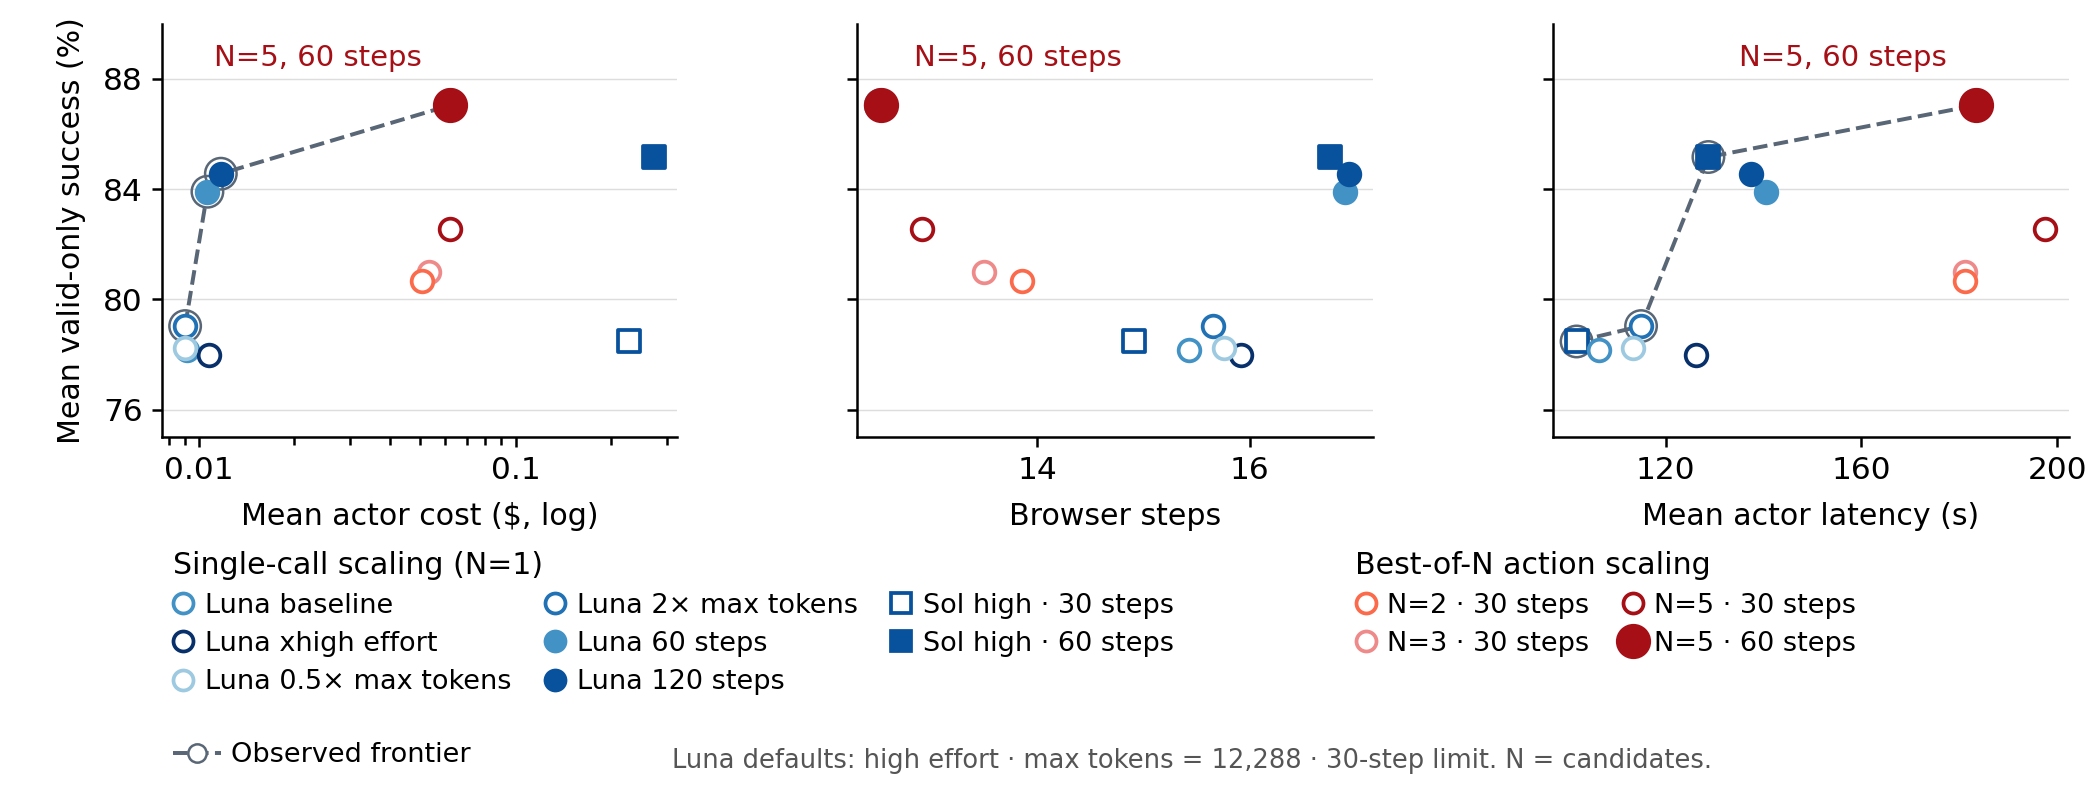
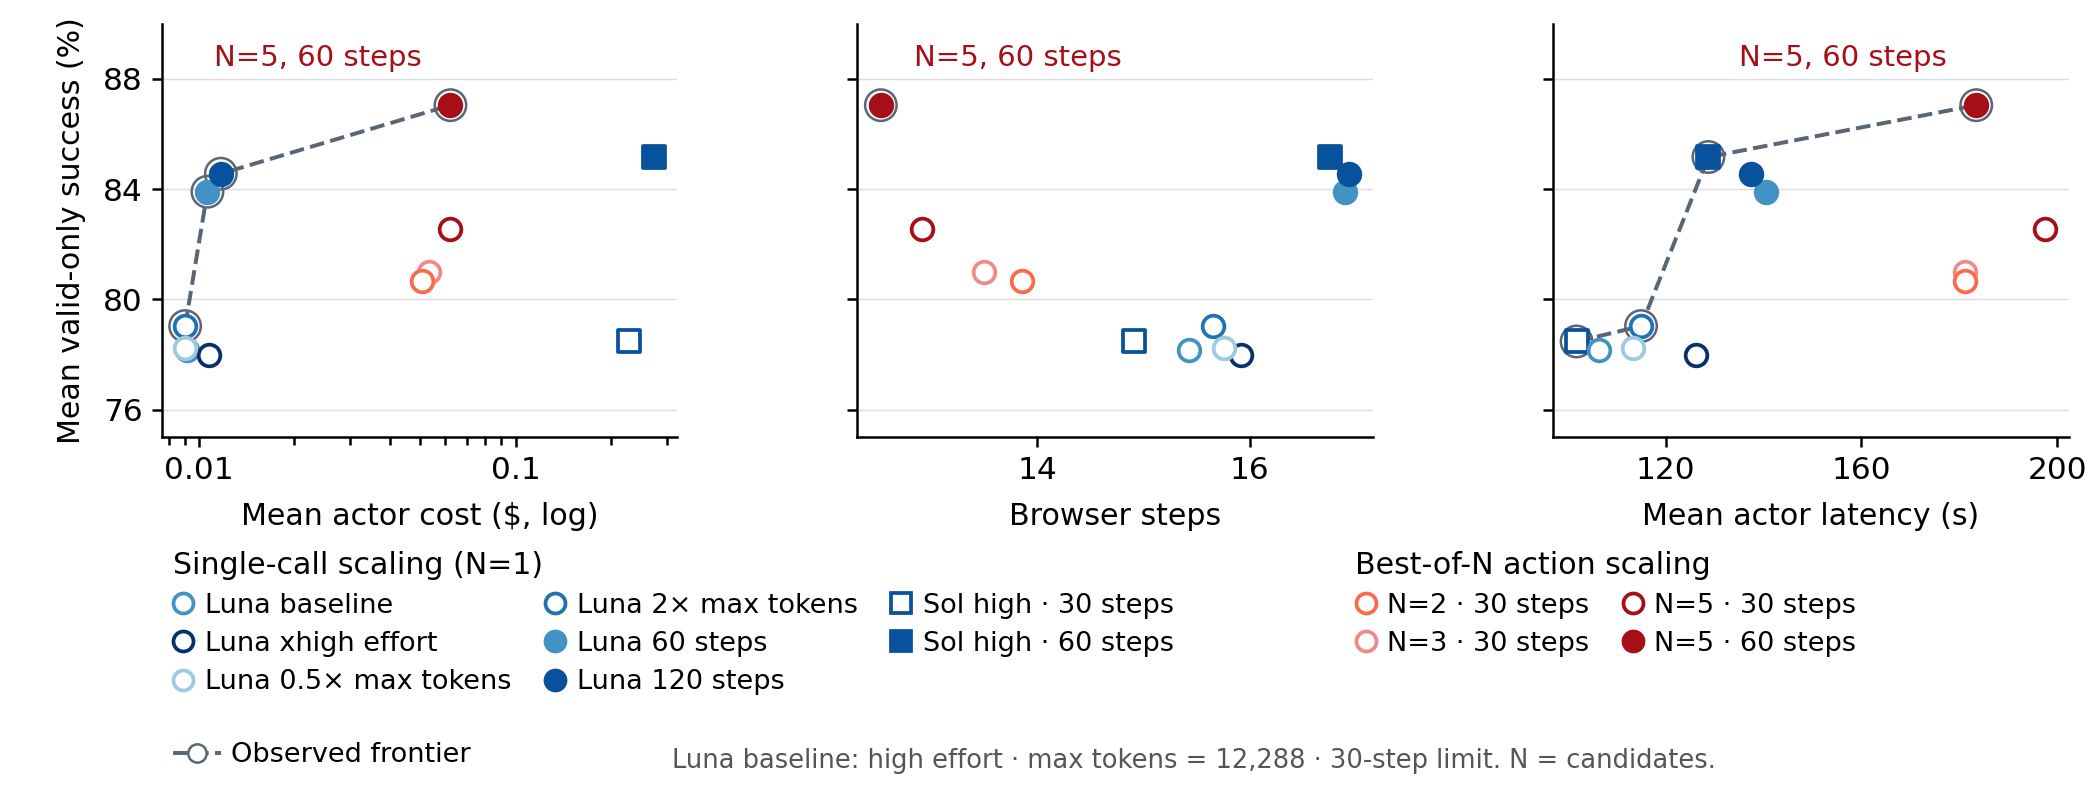
Use standard red marker size and define Luna baseline in Pareto preview

diff --git a/openwebrl/docs/arm_results/browsercode_inference_scaling_20261031/plot_browsercode_pareto_highlight_preview.py b/openwebrl/docs/arm_results/browsercode_inference_scaling_20261031/plot_browsercode_pareto_highlight_preview.py
@@ -1,7 +1,7 @@
 #!/usr/bin/env python3
 """Separate weighted Pareto preview: hollow 30-step, filled 60/120-step markers.
 
-Enlarges and directly labels N5/60; preserves all input coordinates, axes, frontier
+Uses standard-size dark-red filled markers and directly labels N5/60; preserves all input coordinates, axes, frontier
 curves and published original figures. No model, browser or experiment calls.
 """
 import importlib.util
@@ -21,7 +21,7 @@ BASE = importlib.util.module_from_spec(spec)
 spec.loader.exec_module(BASE)
 LONG = {"luna_single_high_60steps", "luna_single_high_120steps", "parallel5_select_high_60steps", BASE.SOL60_METHOD}
 FOCUS = "parallel5_select_high_60steps"
-SIZE = 54
+SIZE = 27
 
 
 def build():
@@ -43,7 +43,7 @@ def build():
             if method == FOCUS:
                 collection.set_sizes([SIZE])
                 collection.set_zorder(5)
-                collection.set_linewidths([1.1])
+                collection.set_linewidths([.9])
                 offset, align = ((8, 8), "left") if j == 1 else ((-7, 8), "right")
                 ax.annotate("N=5, 60 steps", expected, xytext=offset,
                             textcoords="offset points", color=color, fontsize=7,
@@ -55,9 +55,8 @@ def build():
             method = label_to_method[text.get_text()]
             color = BASE.SCALING.STYLES[method][2]
             line.set_markerfacecolor(color if method in LONG else "white")
-            if method == FOCUS:
-                line.set_markersize(np.sqrt(SIZE))
-                line.set_markeredgewidth(1.1)
+    for text in fig.texts:
+        text.set_text(text.get_text().replace("Luna defaults:", "Luna baseline:"))
     return fig, frontier_report
 
 
@@ -69,6 +68,7 @@ def main():
         styles=dict(hollow="30-decision limit", filled="60/120-decision limit",
                     highlight=FOCUS, highlight_size_points_squared=SIZE,
                     baseline_size_points_squared=27, highlight_label="N=5, 60 steps",
+                    baseline_definition="Luna baseline: high effort, max output tokens = 12,288 per call, 30-step limit",
                     colors="Original colors retained; no new halo"),
         source_sha256={name: BASE.sha(HERE / name) for name in (
             "aggregate.json", "browsercode_scaling_weighted_average.json",

diff --git a/openwebrl/docs/ARM_FINAL_RESULTS.md b/openwebrl/docs/ARM_FINAL_RESULTS.md
@@ -103,9 +103,9 @@ Dashed segments join the observed nondominated settings in each panel: minimize 
 
 **Filled-marker highlight preview.**
 
-![Alternative weighted Pareto plot: hollow 30-step markers, filled 60/120-step markers, and a larger directly labeled dark-red N5/60 point](arm_results/browsercode_inference_scaling_20261031/browsercode_scaling_weighted_pareto_highlight_preview.png)
+![Alternative weighted Pareto plot: hollow 30-step markers, filled 60/120-step markers, and a standard-size directly labeled dark-red N5/60 point](arm_results/browsercode_inference_scaling_20261031/browsercode_scaling_weighted_pareto_highlight_preview.png)
 
-*Same twelve configurations (including completed Sol high/60), own-valid populations, benchmark weights, coordinates, axes and frontier curves as the weighted plot above. Here hollow markers indicate a 30-decision limit and filled markers a 60/120-decision limit; N5/60 is larger and directly labeled. The current plot is preserved for comparison.* [Preview PDF](arm_results/browsercode_inference_scaling_20261031/browsercode_scaling_weighted_pareto_highlight_preview.pdf) · [SVG](arm_results/browsercode_inference_scaling_20261031/browsercode_scaling_weighted_pareto_highlight_preview.svg) · [Source](arm_results/browsercode_inference_scaling_20261031/plot_browsercode_pareto_highlight_preview.py) · [Provenance](arm_results/browsercode_inference_scaling_20261031/browsercode_scaling_weighted_pareto_highlight_preview.json).
+*Same twelve configurations (including completed Sol high/60), own-valid populations, benchmark weights, coordinates, axes and frontier curves as the weighted plot above. Here hollow markers indicate a 30-decision limit and filled markers a 60/120-decision limit; N5/60 uses the same marker size as the other methods and is filled dark red and directly labeled. The footer explicitly defines the Luna baseline: high effort, 12,288 maximum output tokens per call and a 30-decision limit. The current plot is preserved for comparison.* [Preview PDF](arm_results/browsercode_inference_scaling_20261031/browsercode_scaling_weighted_pareto_highlight_preview.pdf) · [SVG](arm_results/browsercode_inference_scaling_20261031/browsercode_scaling_weighted_pareto_highlight_preview.svg) · [Source](arm_results/browsercode_inference_scaling_20261031/plot_browsercode_pareto_highlight_preview.py) · [Provenance](arm_results/browsercode_inference_scaling_20261031/browsercode_scaling_weighted_pareto_highlight_preview.json).
 
 [Per-benchmark PDF](arm_results/browsercode_inference_scaling_20261031/browsercode_scaling_pareto_preview.pdf) · [SVG](arm_results/browsercode_inference_scaling_20261031/browsercode_scaling_pareto_preview.svg) · [Weighted PDF](arm_results/browsercode_inference_scaling_20261031/browsercode_scaling_weighted_pareto_preview.pdf) · [SVG](arm_results/browsercode_inference_scaling_20261031/browsercode_scaling_weighted_pareto_preview.svg) · [Common-valid weighted PDF](arm_results/browsercode_inference_scaling_20261031/browsercode_scaling_common_valid_pareto_preview.pdf) · [Frontier membership and source hashes](arm_results/browsercode_inference_scaling_20261031/browsercode_pareto_previews.json) · [Reproduction source](arm_results/browsercode_inference_scaling_20261031/plot_browsercode_pareto_previews.py).
 
